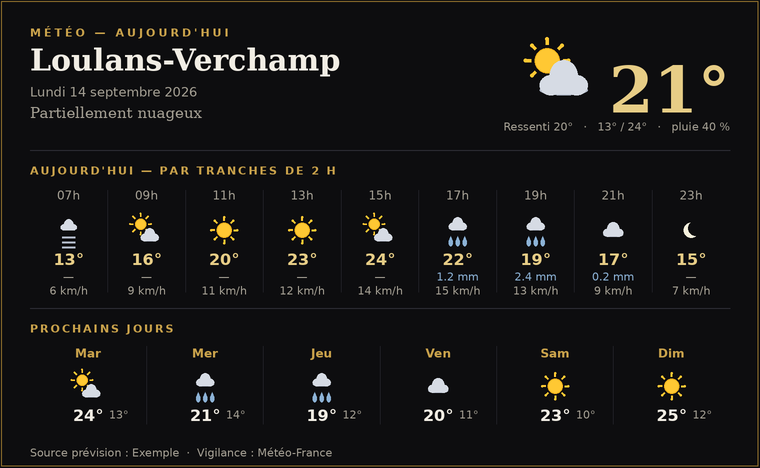
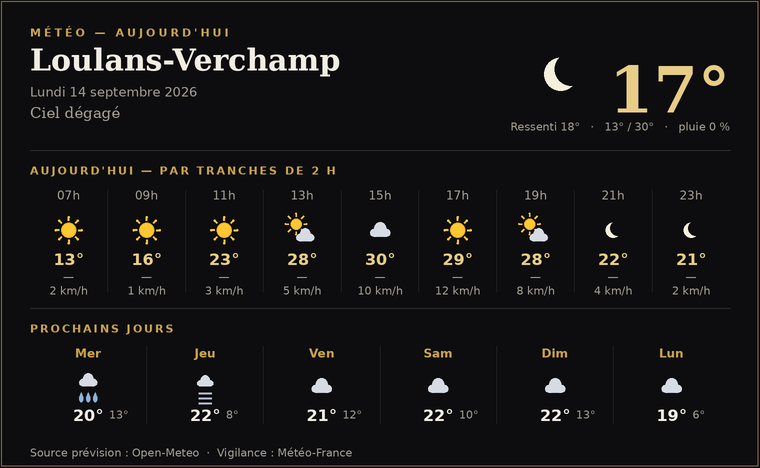
test: bloc météo généré avec données réelles Open-Meteo

diff --git a/public/weather_table.html b/public/weather_table.html
@@ -1,1 +1,1 @@
-<table role="presentation" width="100%" cellpadding="0" cellspacing="0" style="max-width:760px;background:#16161b;border:1px solid #2c2c34;border-collapse:collapse"><tr><td colspan="8" style="padding:6px 8px;border-bottom:1px solid #2c2c34;font-family:Arial,sans-serif;color:#c9a24b;font-size:11px;letter-spacing:.1em;text-transform:uppercase">Météo — Loulans-Verchamp</td></tr><tr><td style="padding:6px 8px;border-bottom:1px solid #2c2c34;font-family:Arial,sans-serif;color:#f1ede4;font-size:22px;font-weight:bold">21°</td><td style="padding:6px 8px;border-bottom:1px solid #2c2c34;font-family:Arial,sans-serif;color:#a49f93;font-size:13px" colspan="7">Partiellement nuageux · ressenti 20° · 13°/24° · pluie 40 % · vent 12 km/h</td></tr><tr><td colspan="8" style="padding:6px 8px;border-bottom:1px solid #2c2c34;font-family:Arial,sans-serif;color:#c9a24b;font-size:11px;letter-spacing:.08em;text-transform:uppercase;">Aujourd'hui (pas de 2 h)</td></tr><tr><td style="padding:6px 8px;border-bottom:1px solid #2c2c34;font-family:Arial,sans-serif;color:#c9a24b;font-size:11px;letter-spacing:.08em;text-transform:uppercase;text-align:center">07h</td><td style="padding:6px 8px;border-bottom:1px solid #2c2c34;font-family:Arial,sans-serif;color:#c9a24b;font-size:11px;letter-spacing:.08em;text-transform:uppercase;text-align:center">09h</td><td style="padding:6px 8px;border-bottom:1px solid #2c2c34;font-family:Arial,sans-serif;color:#c9a24b;font-size:11px;letter-spacing:.08em;text-transform:uppercase;text-align:center">11h</td><td style="padding:6px 8px;border-bottom:1px solid #2c2c34;font-family:Arial,sans-serif;color:#c9a24b;font-size:11px;letter-spacing:.08em;text-transform:uppercase;text-align:center">13h</td><td style="padding:6px 8px;border-bottom:1px solid #2c2c34;font-family:Arial,sans-serif;color:#c9a24b;font-size:11px;letter-spacing:.08em;text-transform:uppercase;text-align:center">15h</td><td style="padding:6px 8px;border-bottom:1px solid #2c2c34;font-family:Arial,sans-serif;color:#c9a24b;font-size:11px;letter-spacing:.08em;text-transform:uppercase;text-align:center">17h</td><td style="padding:6px 8px;border-bottom:1px solid #2c2c34;font-family:Arial,sans-serif;color:#c9a24b;font-size:11px;letter-spacing:.08em;text-transform:uppercase;text-align:center">19h</td><td style="padding:6px 8px;border-bottom:1px solid #2c2c34;font-family:Arial,sans-serif;color:#c9a24b;font-size:11px;letter-spacing:.08em;text-transform:uppercase;text-align:center">21h</td><td style="padding:6px 8px;border-bottom:1px solid #2c2c34;font-family:Arial,sans-serif;color:#c9a24b;font-size:11px;letter-spacing:.08em;text-transform:uppercase;text-align:center">23h</td></tr><tr><td style="padding:6px 8px;border-bottom:1px solid #2c2c34;font-family:Arial,sans-serif;color:#e7cd86;text-align:center;font-weight:bold">13°</td><td style="padding:6px 8px;border-bottom:1px solid #2c2c34;font-family:Arial,sans-serif;color:#e7cd86;text-align:center;font-weight:bold">16°</td><td style="padding:6px 8px;border-bottom:1px solid #2c2c34;font-family:Arial,sans-serif;color:#e7cd86;text-align:center;font-weight:bold">20°</td><td style="padding:6px 8px;border-bottom:1px solid #2c2c34;font-family:Arial,sans-serif;color:#e7cd86;text-align:center;font-weight:bold">23°</td><td style="padding:6px 8px;border-bottom:1px solid #2c2c34;font-family:Arial,sans-serif;color:#e7cd86;text-align:center;font-weight:bold">24°</td><td style="padding:6px 8px;border-bottom:1px solid #2c2c34;font-family:Arial,sans-serif;color:#e7cd86;text-align:center;font-weight:bold">22°</td><td style="padding:6px 8px;border-bottom:1px solid #2c2c34;font-family:Arial,sans-serif;color:#e7cd86;text-align:center;font-weight:bold">19°</td><td style="padding:6px 8px;border-bottom:1px solid #2c2c34;font-family:Arial,sans-serif;color:#e7cd86;text-align:center;font-weight:bold">17°</td><td style="padding:6px 8px;border-bottom:1px solid #2c2c34;font-family:Arial,sans-serif;color:#e7cd86;text-align:center;font-weight:bold">15°</td></tr><tr><td style="padding:6px 8px;border-bottom:1px solid #2c2c34;font-family:Arial,sans-serif;color:#a49f93;text-align:center;font-size:11px">—</td><td style="padding:6px 8px;border-bottom:1px solid #2c2c34;font-family:Arial,sans-serif;color:#a49f93;text-align:center;font-size:11px">—</td><td style="padding:6px 8px;border-bottom:1px solid #2c2c34;font-family:Arial,sans-serif;color:#a49f93;text-align:center;font-size:11px">—</td><td style="padding:6px 8px;border-bottom:1px solid #2c2c34;font-family:Arial,sans-serif;color:#a49f93;text-align:center;font-size:11px">—</td><td style="padding:6px 8px;border-bottom:1px solid #2c2c34;font-family:Arial,sans-serif;color:#a49f93;text-align:center;font-size:11px">—</td><td style="padding:6px 8px;border-bottom:1px solid #2c2c34;font-family:Arial,sans-serif;color:#a49f93;text-align:center;font-size:11px">1.2 mm</td><td style="padding:6px 8px;border-bottom:1px solid #2c2c34;font-family:Arial,sans-serif;color:#a49f93;text-align:center;font-size:11px">2.4 mm</td><td style="padding:6px 8px;border-bottom:1px solid #2c2c34;font-family:Arial,sans-serif;color:#a49f93;text-align:center;font-size:11px">0.2 mm</td><td style="padding:6px 8px;border-bottom:1px solid #2c2c34;font-family:Arial,sans-serif;color:#a49f93;text-align:center;font-size:11px">—</td></tr><tr><td colspan="8" style="padding:6px 8px;border-bottom:1px solid #2c2c34;font-family:Arial,sans-serif;color:#c9a24b;font-size:11px;letter-spacing:.08em;text-transform:uppercase;">Prochains jours</td></tr><tr><td style="padding:6px 8px;border-bottom:1px solid #2c2c34;font-family:Arial,sans-serif;color:#c9a24b;font-size:11px;letter-spacing:.08em;text-transform:uppercase;text-align:center">Mar</td><td style="padding:6px 8px;border-bottom:1px solid #2c2c34;font-family:Arial,sans-serif;color:#c9a24b;font-size:11px;letter-spacing:.08em;text-transform:uppercase;text-align:center">Mer</td><td style="padding:6px 8px;border-bottom:1px solid #2c2c34;font-family:Arial,sans-serif;color:#c9a24b;font-size:11px;letter-spacing:.08em;text-transform:uppercase;text-align:center">Jeu</td><td style="padding:6px 8px;border-bottom:1px solid #2c2c34;font-family:Arial,sans-serif;color:#c9a24b;font-size:11px;letter-spacing:.08em;text-transform:uppercase;text-align:center">Ven</td><td style="padding:6px 8px;border-bottom:1px solid #2c2c34;font-family:Arial,sans-serif;color:#c9a24b;font-size:11px;letter-spacing:.08em;text-transform:uppercase;text-align:center">Sam</td><td style="padding:6px 8px;border-bottom:1px solid #2c2c34;font-family:Arial,sans-serif;color:#c9a24b;font-size:11px;letter-spacing:.08em;text-transform:uppercase;text-align:center">Dim</td></tr><tr><td style="padding:6px 8px;border-bottom:1px solid #2c2c34;font-family:Arial,sans-serif;color:#f1ede4;text-align:center">24°<span style="color:#a49f93"> / 13°</span></td><td style="padding:6px 8px;border-bottom:1px solid #2c2c34;font-family:Arial,sans-serif;color:#f1ede4;text-align:center">21°<span style="color:#a49f93"> / 14°</span></td><td style="padding:6px 8px;border-bottom:1px solid #2c2c34;font-family:Arial,sans-serif;color:#f1ede4;text-align:center">19°<span style="color:#a49f93"> / 12°</span></td><td style="padding:6px 8px;border-bottom:1px solid #2c2c34;font-family:Arial,sans-serif;color:#f1ede4;text-align:center">20°<span style="color:#a49f93"> / 11°</span></td><td style="padding:6px 8px;border-bottom:1px solid #2c2c34;font-family:Arial,sans-serif;color:#f1ede4;text-align:center">23°<span style="color:#a49f93"> / 10°</span></td><td style="padding:6px 8px;border-bottom:1px solid #2c2c34;font-family:Arial,sans-serif;color:#f1ede4;text-align:center">25°<span style="color:#a49f93"> / 12°</span></td></tr></table>
+<table role="presentation" width="100%" cellpadding="0" cellspacing="0" style="max-width:760px;background:#16161b;border:1px solid #2c2c34;border-collapse:collapse"><tr><td colspan="8" style="padding:6px 8px;border-bottom:1px solid #2c2c34;font-family:Arial,sans-serif;color:#c9a24b;font-size:11px;letter-spacing:.1em;text-transform:uppercase">Météo — Loulans-Verchamp</td></tr><tr><td style="padding:6px 8px;border-bottom:1px solid #2c2c34;font-family:Arial,sans-serif;color:#f1ede4;font-size:22px;font-weight:bold">17°</td><td style="padding:6px 8px;border-bottom:1px solid #2c2c34;font-family:Arial,sans-serif;color:#a49f93;font-size:13px" colspan="7">Ciel dégagé · ressenti 18° · 13°/30° · pluie 0 % · vent 12 km/h</td></tr><tr><td colspan="8" style="padding:6px 8px;border-bottom:1px solid #2c2c34;font-family:Arial,sans-serif;color:#c9a24b;font-size:11px;letter-spacing:.08em;text-transform:uppercase;">Aujourd'hui (pas de 2 h)</td></tr><tr><td style="padding:6px 8px;border-bottom:1px solid #2c2c34;font-family:Arial,sans-serif;color:#c9a24b;font-size:11px;letter-spacing:.08em;text-transform:uppercase;text-align:center">07h</td><td style="padding:6px 8px;border-bottom:1px solid #2c2c34;font-family:Arial,sans-serif;color:#c9a24b;font-size:11px;letter-spacing:.08em;text-transform:uppercase;text-align:center">09h</td><td style="padding:6px 8px;border-bottom:1px solid #2c2c34;font-family:Arial,sans-serif;color:#c9a24b;font-size:11px;letter-spacing:.08em;text-transform:uppercase;text-align:center">11h</td><td style="padding:6px 8px;border-bottom:1px solid #2c2c34;font-family:Arial,sans-serif;color:#c9a24b;font-size:11px;letter-spacing:.08em;text-transform:uppercase;text-align:center">13h</td><td style="padding:6px 8px;border-bottom:1px solid #2c2c34;font-family:Arial,sans-serif;color:#c9a24b;font-size:11px;letter-spacing:.08em;text-transform:uppercase;text-align:center">15h</td><td style="padding:6px 8px;border-bottom:1px solid #2c2c34;font-family:Arial,sans-serif;color:#c9a24b;font-size:11px;letter-spacing:.08em;text-transform:uppercase;text-align:center">17h</td><td style="padding:6px 8px;border-bottom:1px solid #2c2c34;font-family:Arial,sans-serif;color:#c9a24b;font-size:11px;letter-spacing:.08em;text-transform:uppercase;text-align:center">19h</td><td style="padding:6px 8px;border-bottom:1px solid #2c2c34;font-family:Arial,sans-serif;color:#c9a24b;font-size:11px;letter-spacing:.08em;text-transform:uppercase;text-align:center">21h</td><td style="padding:6px 8px;border-bottom:1px solid #2c2c34;font-family:Arial,sans-serif;color:#c9a24b;font-size:11px;letter-spacing:.08em;text-transform:uppercase;text-align:center">23h</td></tr><tr><td style="padding:6px 8px;border-bottom:1px solid #2c2c34;font-family:Arial,sans-serif;color:#e7cd86;text-align:center;font-weight:bold">13°</td><td style="padding:6px 8px;border-bottom:1px solid #2c2c34;font-family:Arial,sans-serif;color:#e7cd86;text-align:center;font-weight:bold">16°</td><td style="padding:6px 8px;border-bottom:1px solid #2c2c34;font-family:Arial,sans-serif;color:#e7cd86;text-align:center;font-weight:bold">23°</td><td style="padding:6px 8px;border-bottom:1px solid #2c2c34;font-family:Arial,sans-serif;color:#e7cd86;text-align:center;font-weight:bold">28°</td><td style="padding:6px 8px;border-bottom:1px solid #2c2c34;font-family:Arial,sans-serif;color:#e7cd86;text-align:center;font-weight:bold">30°</td><td style="padding:6px 8px;border-bottom:1px solid #2c2c34;font-family:Arial,sans-serif;color:#e7cd86;text-align:center;font-weight:bold">29°</td><td style="padding:6px 8px;border-bottom:1px solid #2c2c34;font-family:Arial,sans-serif;color:#e7cd86;text-align:center;font-weight:bold">28°</td><td style="padding:6px 8px;border-bottom:1px solid #2c2c34;font-family:Arial,sans-serif;color:#e7cd86;text-align:center;font-weight:bold">22°</td><td style="padding:6px 8px;border-bottom:1px solid #2c2c34;font-family:Arial,sans-serif;color:#e7cd86;text-align:center;font-weight:bold">21°</td></tr><tr><td style="padding:6px 8px;border-bottom:1px solid #2c2c34;font-family:Arial,sans-serif;color:#a49f93;text-align:center;font-size:11px">—</td><td style="padding:6px 8px;border-bottom:1px solid #2c2c34;font-family:Arial,sans-serif;color:#a49f93;text-align:center;font-size:11px">—</td><td style="padding:6px 8px;border-bottom:1px solid #2c2c34;font-family:Arial,sans-serif;color:#a49f93;text-align:center;font-size:11px">—</td><td style="padding:6px 8px;border-bottom:1px solid #2c2c34;font-family:Arial,sans-serif;color:#a49f93;text-align:center;font-size:11px">—</td><td style="padding:6px 8px;border-bottom:1px solid #2c2c34;font-family:Arial,sans-serif;color:#a49f93;text-align:center;font-size:11px">—</td><td style="padding:6px 8px;border-bottom:1px solid #2c2c34;font-family:Arial,sans-serif;color:#a49f93;text-align:center;font-size:11px">—</td><td style="padding:6px 8px;border-bottom:1px solid #2c2c34;font-family:Arial,sans-serif;color:#a49f93;text-align:center;font-size:11px">—</td><td style="padding:6px 8px;border-bottom:1px solid #2c2c34;font-family:Arial,sans-serif;color:#a49f93;text-align:center;font-size:11px">—</td><td style="padding:6px 8px;border-bottom:1px solid #2c2c34;font-family:Arial,sans-serif;color:#a49f93;text-align:center;font-size:11px">—</td></tr><tr><td colspan="8" style="padding:6px 8px;border-bottom:1px solid #2c2c34;font-family:Arial,sans-serif;color:#c9a24b;font-size:11px;letter-spacing:.08em;text-transform:uppercase;">Prochains jours</td></tr><tr><td style="padding:6px 8px;border-bottom:1px solid #2c2c34;font-family:Arial,sans-serif;color:#c9a24b;font-size:11px;letter-spacing:.08em;text-transform:uppercase;text-align:center">Mer</td><td style="padding:6px 8px;border-bottom:1px solid #2c2c34;font-family:Arial,sans-serif;color:#c9a24b;font-size:11px;letter-spacing:.08em;text-transform:uppercase;text-align:center">Jeu</td><td style="padding:6px 8px;border-bottom:1px solid #2c2c34;font-family:Arial,sans-serif;color:#c9a24b;font-size:11px;letter-spacing:.08em;text-transform:uppercase;text-align:center">Ven</td><td style="padding:6px 8px;border-bottom:1px solid #2c2c34;font-family:Arial,sans-serif;color:#c9a24b;font-size:11px;letter-spacing:.08em;text-transform:uppercase;text-align:center">Sam</td><td style="padding:6px 8px;border-bottom:1px solid #2c2c34;font-family:Arial,sans-serif;color:#c9a24b;font-size:11px;letter-spacing:.08em;text-transform:uppercase;text-align:center">Dim</td><td style="padding:6px 8px;border-bottom:1px solid #2c2c34;font-family:Arial,sans-serif;color:#c9a24b;font-size:11px;letter-spacing:.08em;text-transform:uppercase;text-align:center">Lun</td></tr><tr><td style="padding:6px 8px;border-bottom:1px solid #2c2c34;font-family:Arial,sans-serif;color:#f1ede4;text-align:center">20°<span style="color:#a49f93"> / 13°</span></td><td style="padding:6px 8px;border-bottom:1px solid #2c2c34;font-family:Arial,sans-serif;color:#f1ede4;text-align:center">22°<span style="color:#a49f93"> / 8°</span></td><td style="padding:6px 8px;border-bottom:1px solid #2c2c34;font-family:Arial,sans-serif;color:#f1ede4;text-align:center">21°<span style="color:#a49f93"> / 12°</span></td><td style="padding:6px 8px;border-bottom:1px solid #2c2c34;font-family:Arial,sans-serif;color:#f1ede4;text-align:center">22°<span style="color:#a49f93"> / 10°</span></td><td style="padding:6px 8px;border-bottom:1px solid #2c2c34;font-family:Arial,sans-serif;color:#f1ede4;text-align:center">22°<span style="color:#a49f93"> / 13°</span></td><td style="padding:6px 8px;border-bottom:1px solid #2c2c34;font-family:Arial,sans-serif;color:#f1ede4;text-align:center">19°<span style="color:#a49f93"> / 6°</span></td></tr></table>
